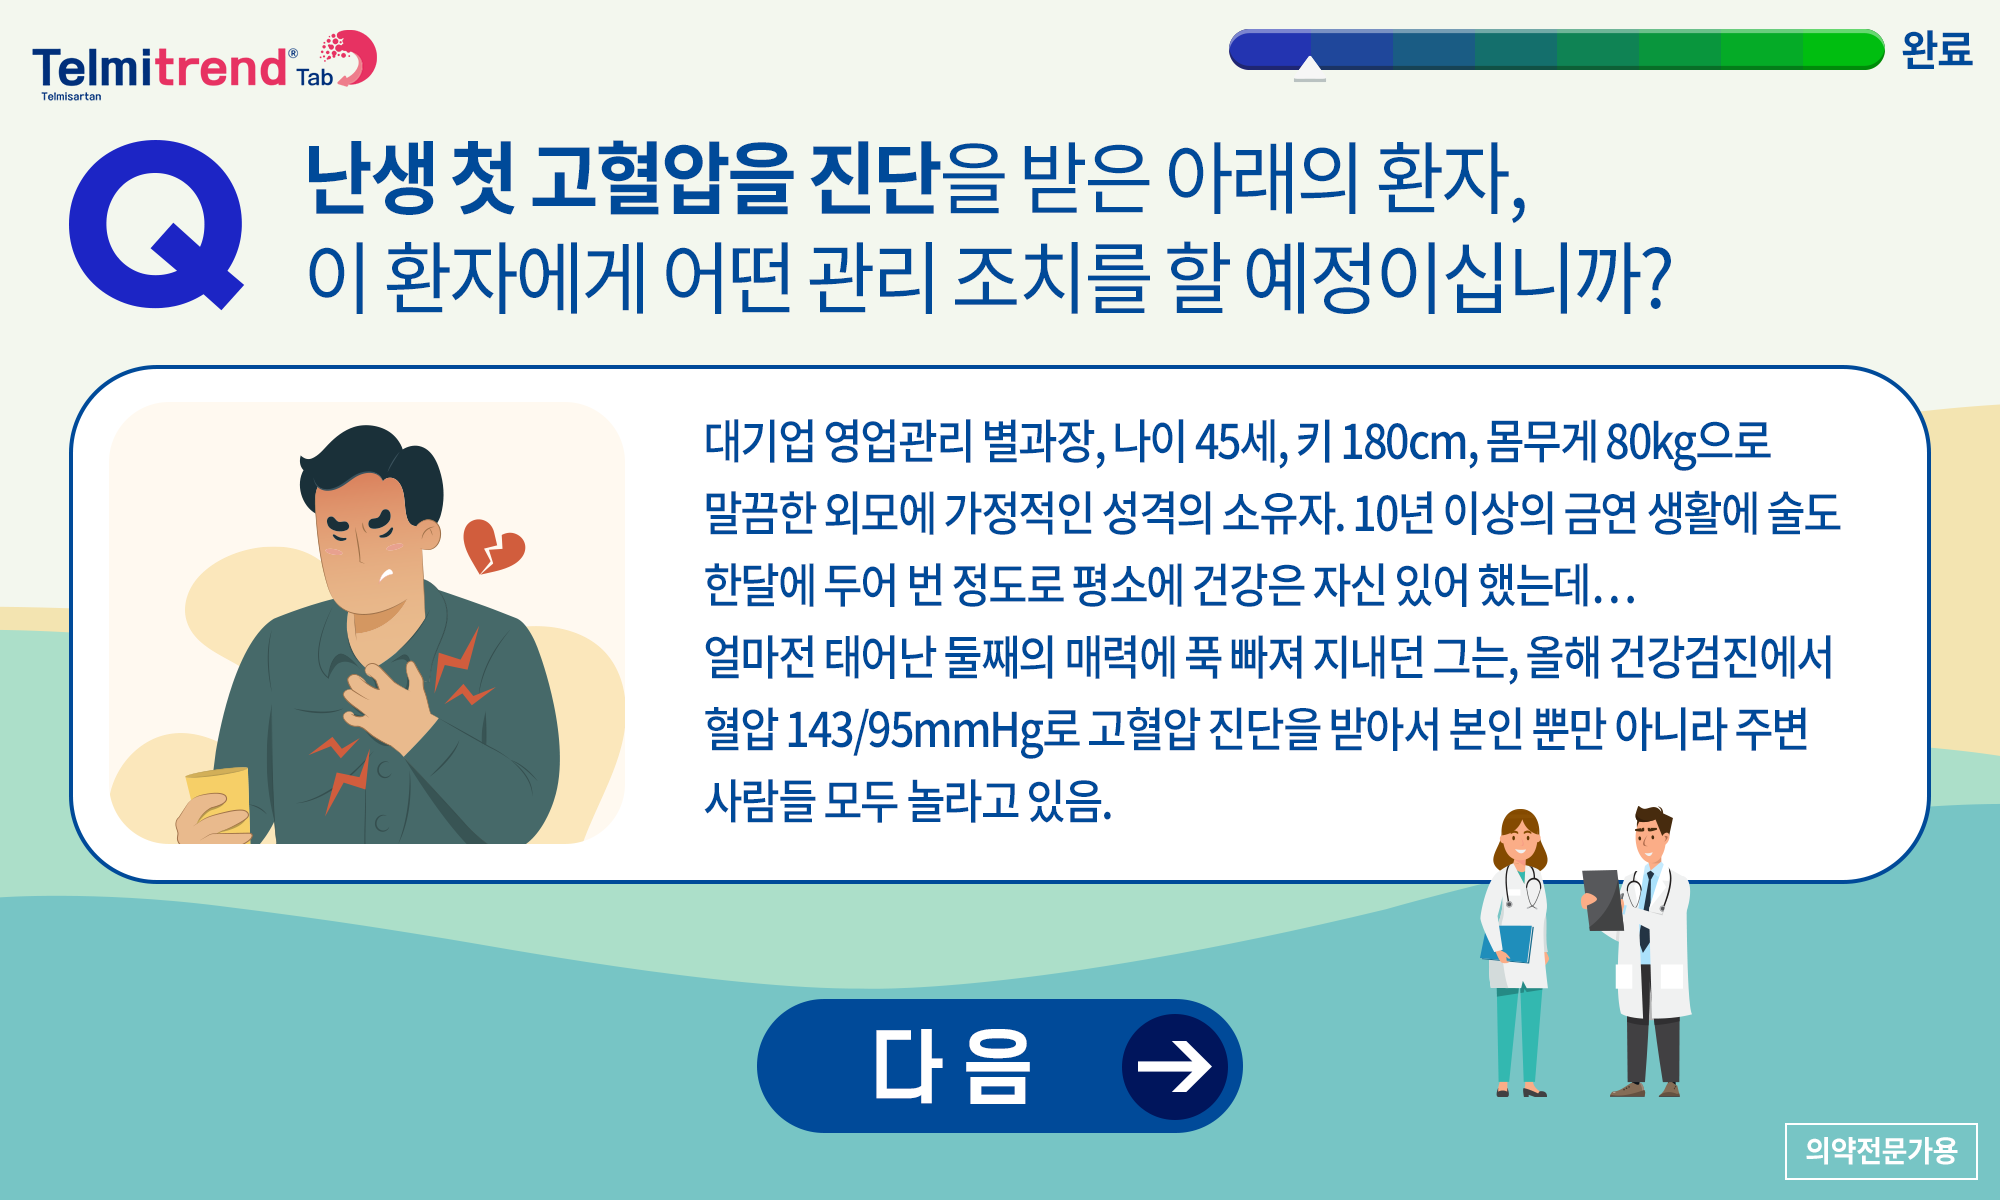
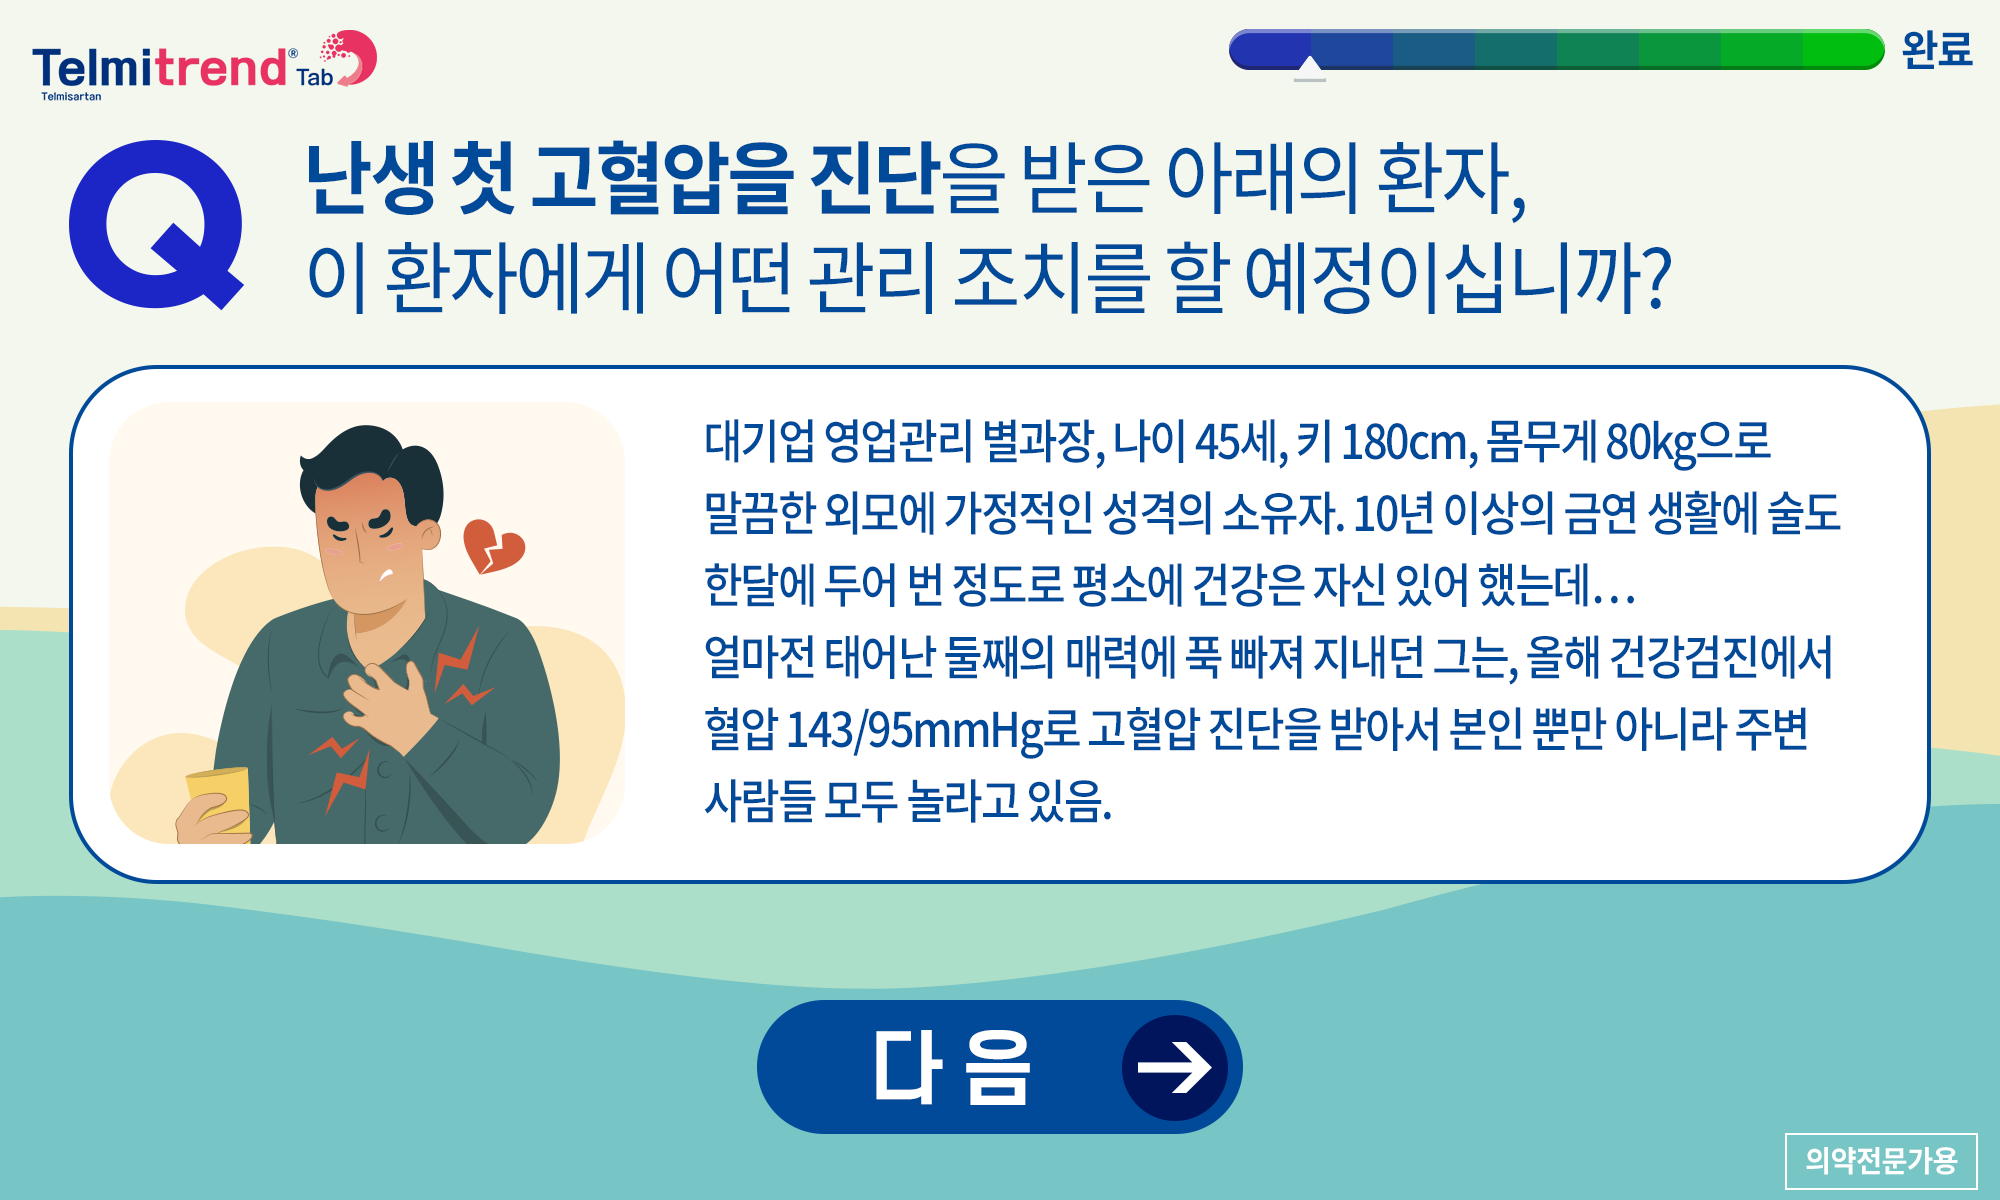
4.1

Changed region(s): [[0.744, 0.6783, 0.868, 0.925], [0.899, 0.925, 0.992, 1.0], [0.496, 0.8633, 0.527, 0.8942]]

diff --git a/src/components/Survey.vue b/src/components/Survey.vue
@@ -3,6 +3,10 @@
     <transition name="fade">
       <div v-if="queBox" class="queBox" :key="1">
         <img :src="`/img/${que.qImg}`" alt="survey">
+        <img :src="`/img/${que.img}`" class="doctors">
+        <div class="curtain-wrap" v-if="que.curtain">
+          <div class="curtain-inner" :class="{ 'curtain-mover' : isActive}"></div>
+        </div>
         <a @click="ansView" class="ans-view">다음</a>
       </div>
 
@@ -14,6 +18,7 @@
               <s class="num" :class="e.idx"></s>
               <input :type="`${que.type}`" :value="i + 1" name="survey" v-model="answer[step]">
               <p v-html="e.label || e"></p>
+              <div class="list-curtain-wrap"><span class="list-curtain-inner" :class="[{'curtain-mover' : isActive}, e.idx]"></span></div>
             </label>
           </div>
           <a @click="nextQue">다음</a>
@@ -35,6 +40,7 @@ export default {
       step: 'q1',
       answer: {},
       queBox: true,
+      isActive: false,
     }
   },
   watch: {
@@ -55,8 +61,16 @@ export default {
     }
   },
   methods: {
+    curtainActive() {
+      this.isActive =! this.isActive
+    },
     ansView() {
       this.queBox = !this.queBox;
+      this.isActive = false;
+      var self = this;
+      setTimeout(function() {
+        self.isActive = true;
+      },500)
     },
     async nextQue() {
       if (!this.answer[this.step] || this.answer[this.step].length === 0) {
@@ -89,6 +103,12 @@ export default {
       if (n) return n;
       return this.que.next;
     },
+  },
+  mounted() {
+    var self = this;
+    setTimeout(function() {
+      self.curtainActive();
+    },500)
   }
 }
 </script>
@@ -98,7 +118,15 @@ export default {
 
   [survey] {
     > div { .abs; .lt; }
-    div a { .wh(486,134); .ib; .abs; .lt(755,1000); }
+    div a { .wh(486,134); .ib; .abs; .lt(755,1000); z-index: 5; }
+    .queBox {
+      .doctors { .abs; .lt(1480,806); z-index: 1; }
+      .curtain-wrap { .wh(1194,446); .abs; .lt(675,394); overflow: hidden;
+        .curtain-inner { .f; .abs; .lt; .bgc(#fff); transition: 3s;
+          &.curtain-mover { .t(100%); }
+        }
+      }
+    }
     .input-box { .abs; .lt; .f; .pl(120); .-box;
       .inner { .h(608); display: inline-flex; flex-direction: column; flex-wrap: wrap;
         label { .ib; .rel;
@@ -118,6 +146,19 @@ export default {
           input:checked + p { color:#fff; }
           p { .fs(70); color:#004a99; .lh(90); .abs; .lt(120,50%); transform: translateY(-50%); font-family: "notokr", arial, sans-serif; .regular; .ls(-1);
             sup { .fs(25); }
+          }
+          .list-curtain-wrap { .abs; .lt; .f; border:4px solid transparent; .-box; overflow: hidden; .br(28);
+            .list-curtain-inner { .f; .abs; .bgc(#fff); .lt; transition: 1.5s; transition-timing-function: linear;
+              &.curtain-mover { .l(100%);
+                &.a { transition-delay: 0s; }
+                &.b { transition-delay: 0.3s; }
+                &.c { transition-delay: 0.6s; }
+                &.d { transition-delay: 0.9s; }
+                &.e { transition-delay: 1.2s; }
+                &.f { transition-delay: 1.5s; }
+                &.g { transition-delay: 1.8s; }
+              }
+            }
           }
         }
       }

diff --git a/src/data/queBoard.js b/src/data/queBoard.js
@@ -4,6 +4,8 @@ export default {
       part: { num: 1_1, q: '난생 첫 고혈압을 진단을 받은 아래의 환자, 이 환자에게 어떤 관리 조치를 할 예정이십니까?' },
       qImg: 'm4-s-1-1.png',
       aImg: 'm4-s-1-2.png',
+      img: 'doctors.png',
+      curtain: 'curtain-mover',
       examples: [
         {idx: 'a', next: 'q2', label: '혈압과의 싸움에서는 선제압이 중요!<br> 즉시 혈압강하제 처방을 고려한다.'},
         {idx: 'b', next: 'q3', label: '운동과 식이요법은 모든 처방에 우선!<br> 약처방 보다는 LSM을 먼저 권한다.'}
